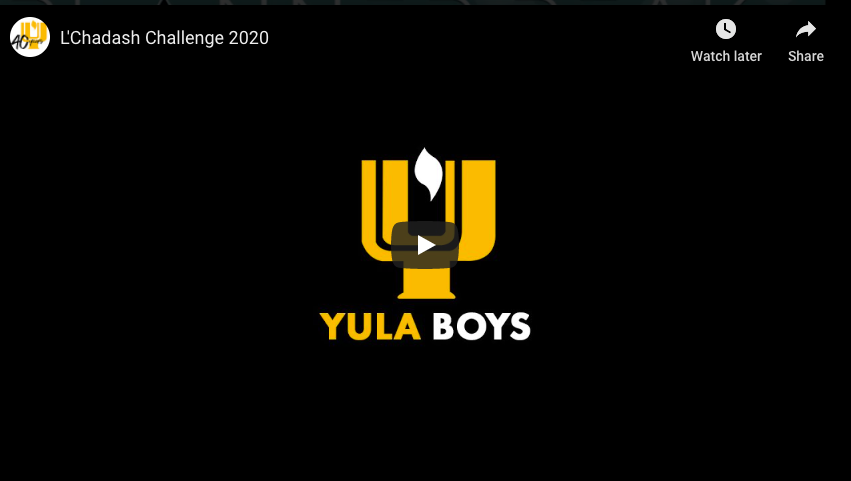
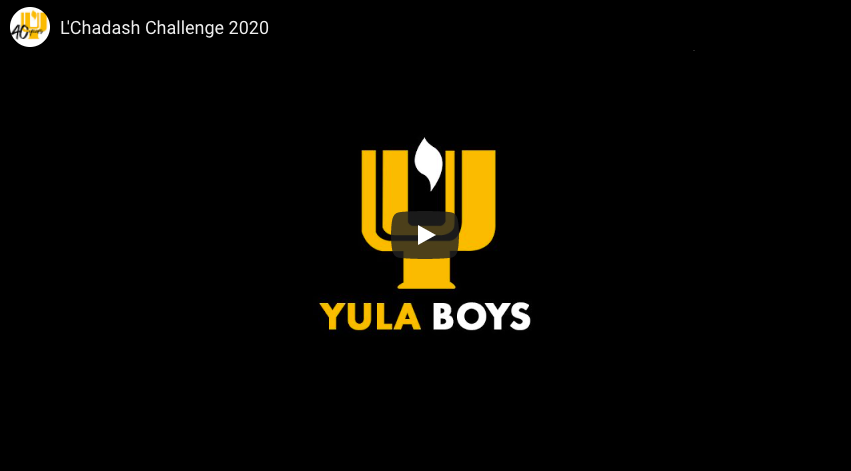
“init”

diff --git a/css/styles.css b/css/styles.css
@@ -37,6 +37,39 @@ Colors:
 - Backgrounds - denim #2f2c3d
 ******************************************/
 
+@font-face {
+  font-family: 'icomoon';
+  src:  url('fonts/icomoon.eot?4rnoo3');
+  src:  url('fonts/icomoon.eot?4rnoo3#iefix') format('embedded-opentype'),
+    url('fonts/icomoon.ttf?4rnoo3') format('truetype'),
+    url('fonts/icomoon.woff?4rnoo3') format('woff'),
+    url('fonts/icomoon.svg?4rnoo3#icomoon') format('svg'),
+    url('fonts/icomoon.woff2') format('woff2');
+  font-weight: normal;
+  font-style: normal;
+  font-display: block;
+}
+
+
+[class^="icon-"], [class*=" icon-"] {
+  /* use !important to prevent issues with browser extensions that change fonts */
+  font-family: 'icomoon' !important;
+  speak: never;
+  font-style: normal;
+  font-weight: normal;
+  font-variant: normal;
+  text-transform: none;
+  line-height: 1;
+
+  /* Better Font Rendering =========== */
+  -webkit-font-smoothing: antialiased;
+  -moz-osx-font-smoothing: grayscale;
+}
+
+.icon-YULA-500:before {
+  content: "\e900";
+}
+
 
 /******************************/
 /*     01. General Styles     */
